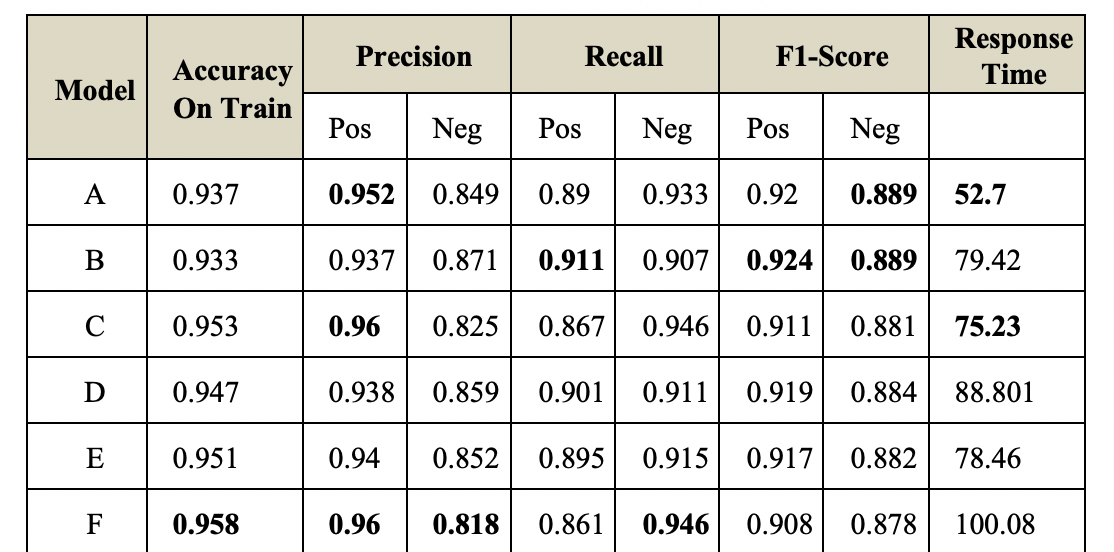
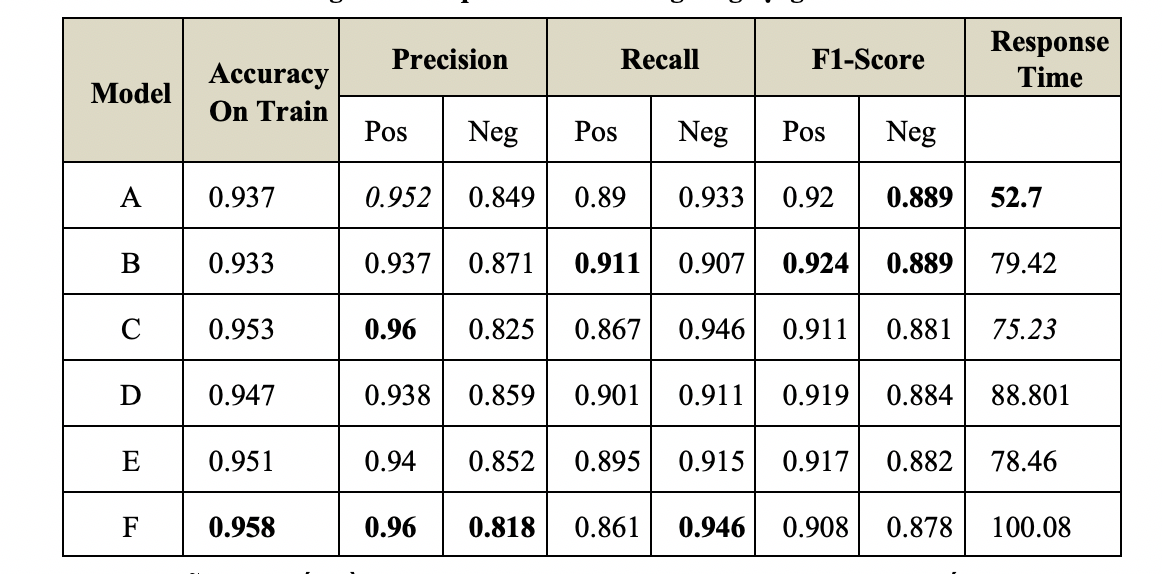
add note in result table

Changed region(s): [[0.0, 0.0, 0.9767, 0.9855]]

diff --git a/README.md b/README.md
@@ -73,6 +73,10 @@ With length equals 50, We coverd 92.89% training set. However, we will test for 
 
  <img src="images/results.png" data-canonical-src="https://gyazo.com/eb5c5741b6a9a16c692170a41a49c858.png" height="300" />
 
+Note:
+> Bold number represents the highest or best score.
+
+> Italic number represents the second one.
 
 It is evident that using CNN model with filter_size [4, 5, 6] for 100 comments yield the highest score but is also takes the most time. 
 
